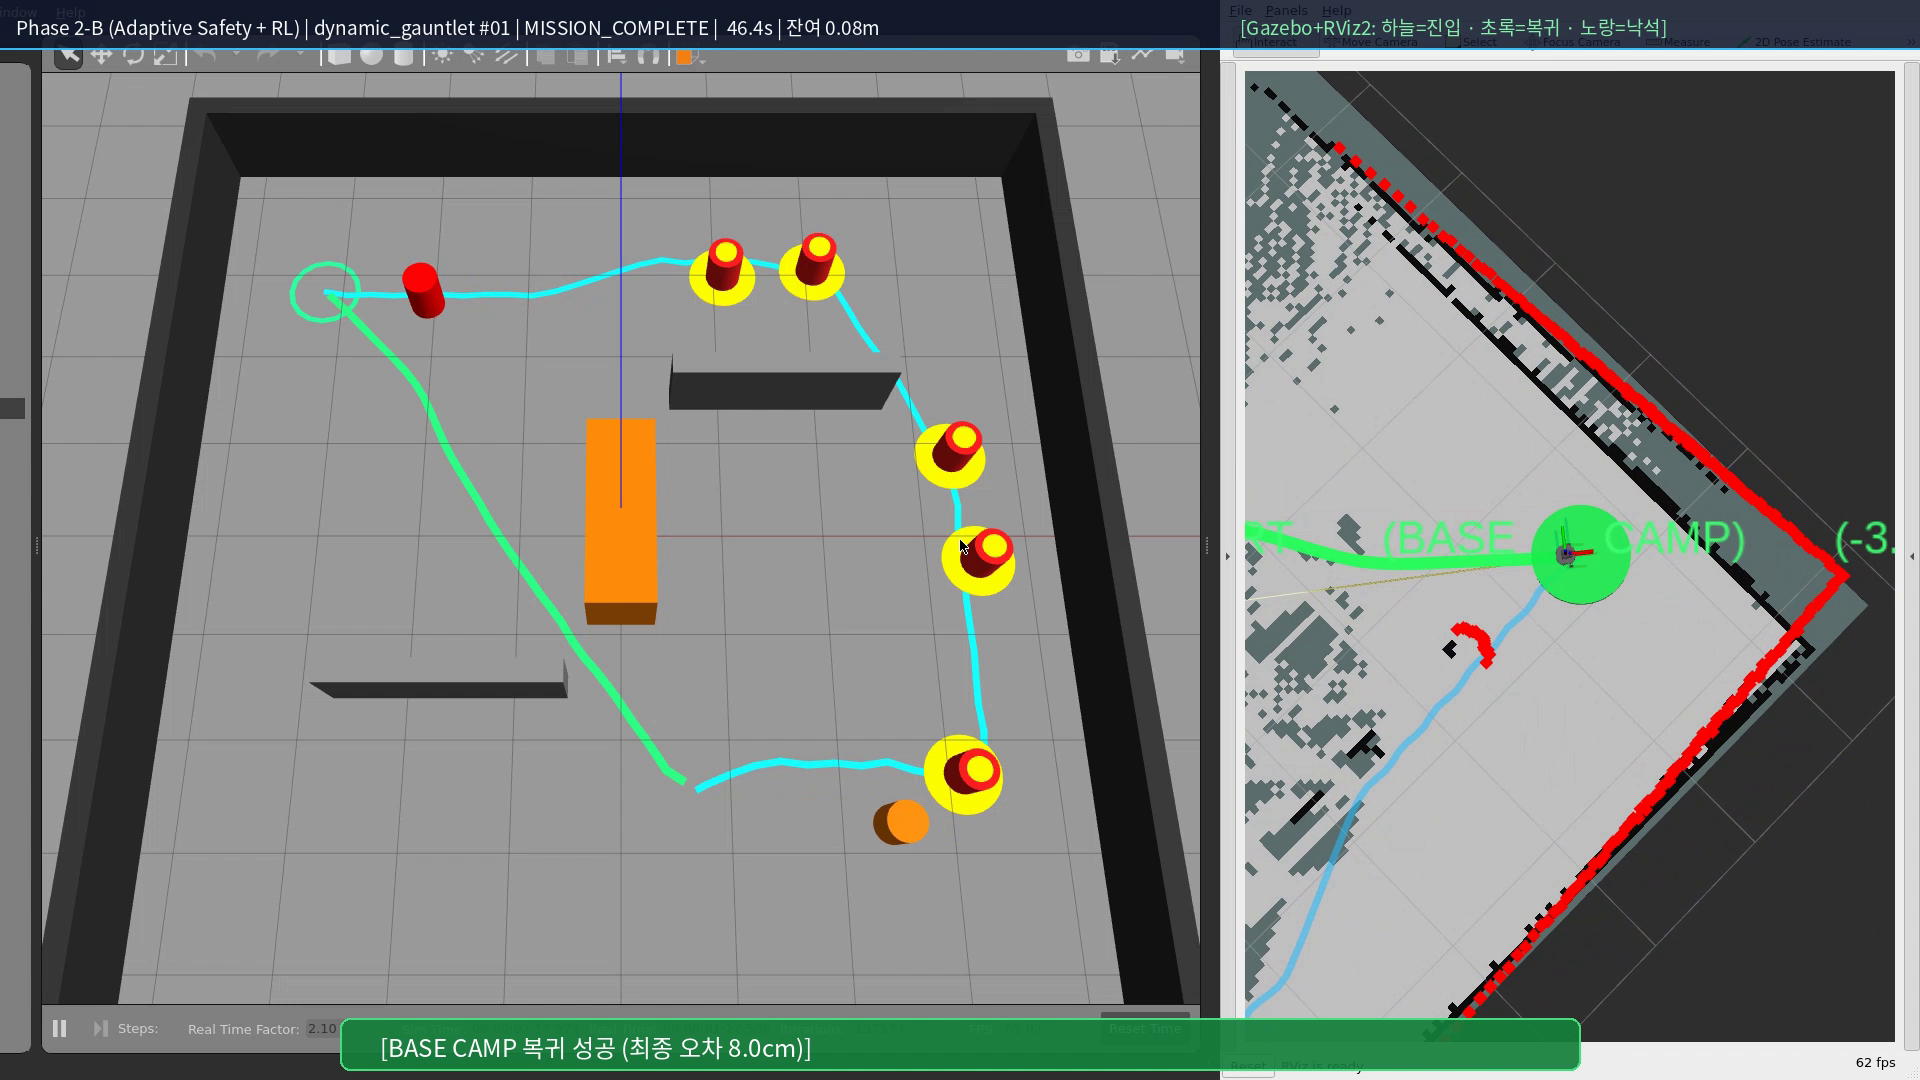
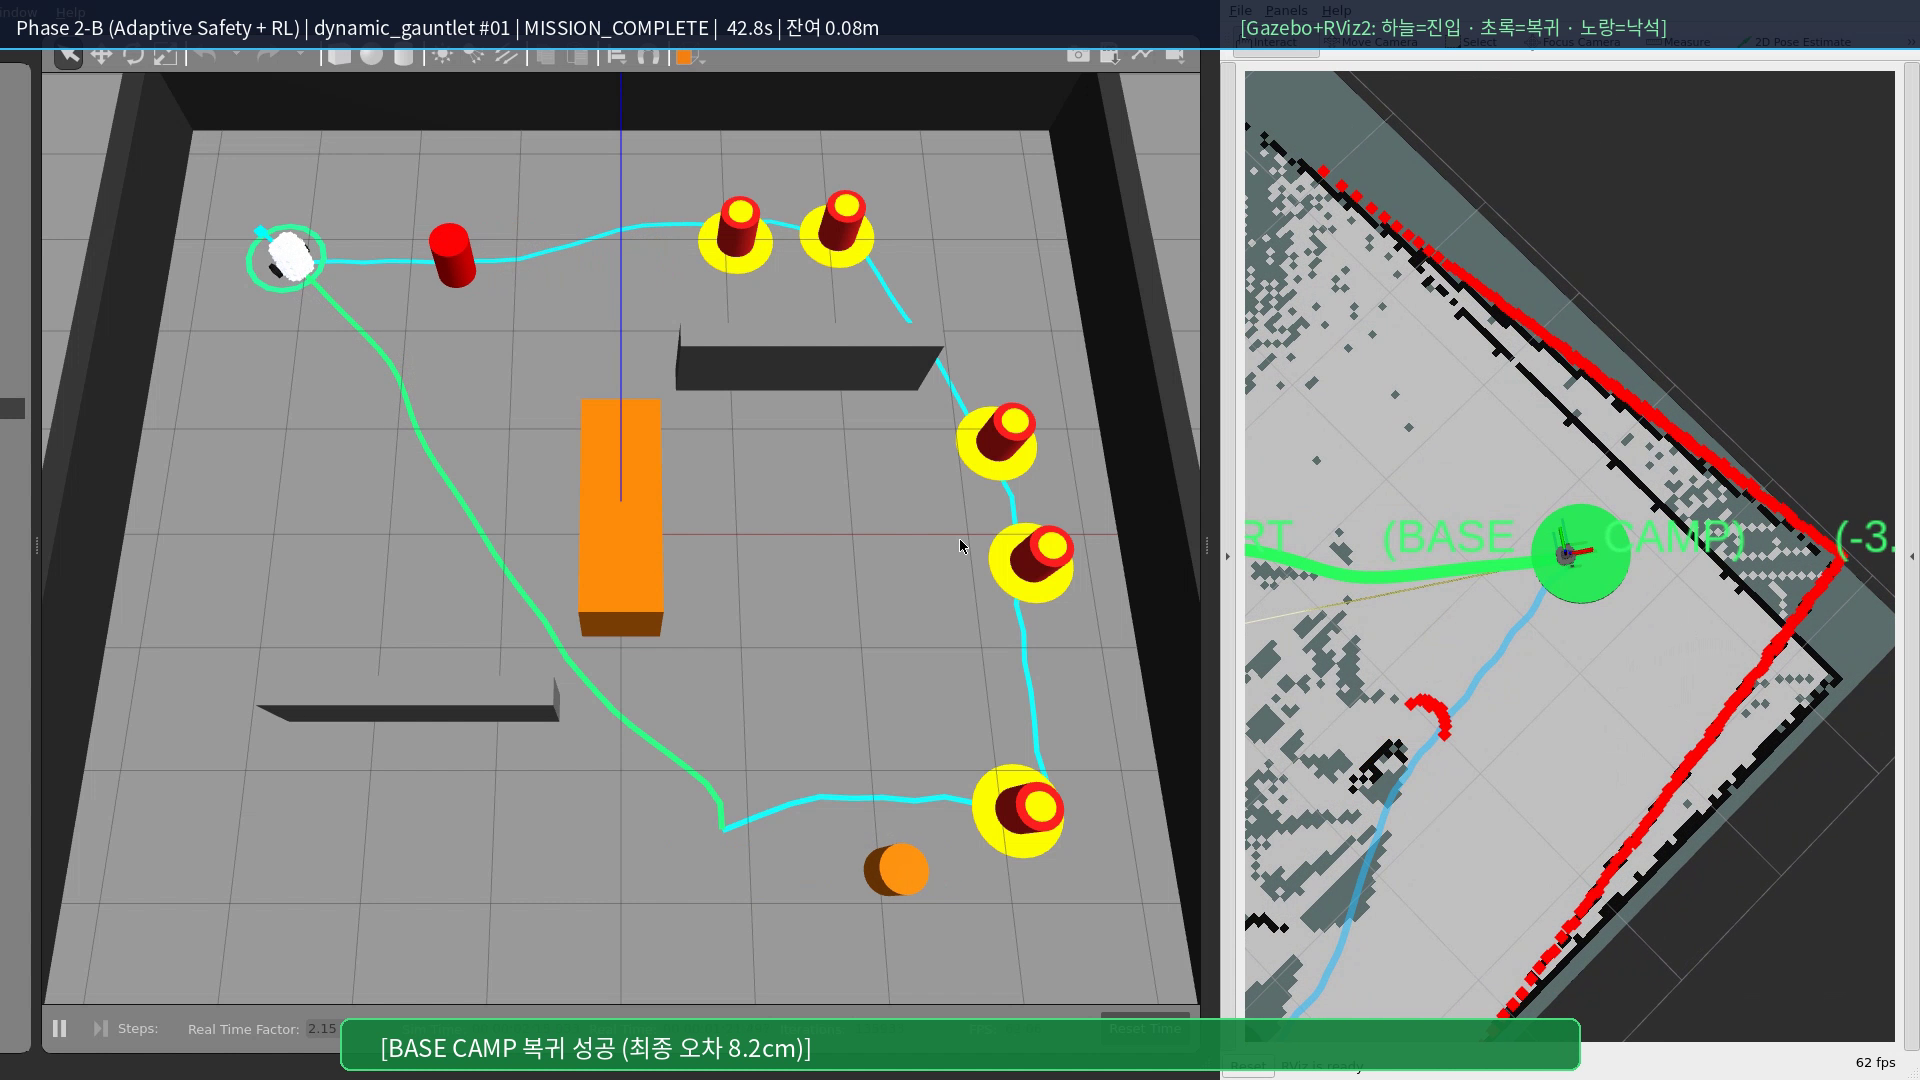
Fix 3D TurtleBot3 mesh/arrow visibility, translucent smoke zones, 7-pillar Seed 10068 GIFs, and final video metrics

Changed region(s): [[0.0, 0.0611, 1.0, 0.9472]]

diff --git a/scripts/host/record_3d_evidence.py b/scripts/host/record_3d_evidence.py
@@ -351,12 +351,12 @@ def _build_ribbon_sdf(
 
 
 CAMERA_OVERRIDES_3D = {
-    "u_pocket_trap": "4.9 -4.05 11.8 0 1.24 1.5708",
-    "slip_chicane": "4.8 -3.85 11.2 0 1.24 1.5708",
-    "dynamic_crossfire_alley": "4.8 -3.85 11.2 0 1.24 1.5708",
-    "smoke_lidar_corruption": "4.8 -3.85 11.2 0 1.24 1.5708",
-    "dynamic_gauntlet": "0.0 -3.25 9.4 0 1.24 1.5708",
-    "house_hard": "-0.3 -5.00 13.8 0 1.24 1.5708",
+    "u_pocket_trap": "4.9 -3.35 9.8 0 1.24 1.5708",
+    "slip_chicane": "4.8 -3.20 9.4 0 1.24 1.5708",
+    "dynamic_crossfire_alley": "4.8 -3.20 9.4 0 1.24 1.5708",
+    "smoke_lidar_corruption": "4.8 -3.20 9.4 0 1.24 1.5708",
+    "dynamic_gauntlet": "0.0 -2.85 8.2 0 1.24 1.5708",
+    "house_hard": "-0.3 -4.25 11.8 0 1.24 1.5708",
 }
 
 
@@ -488,6 +488,7 @@ def main() -> int:
         f"source /opt/ros/humble/setup.bash && source {WS_ROOT}/install/setup.bash && "
         f"export DISPLAY={args.display} {sw_env}QT_X11_NO_MITSHM=1 "
         f"ROS_LOCALHOST_ONLY=1 ROS_DOMAIN_ID={args.ros_domain_id} GAZEBO_MASTER_URI={gz_master_uri} "
+        f"GAZEBO_MODEL_PATH=/opt/ros/humble/share/turtlebot3_gazebo/models:${{GAZEBO_MODEL_PATH:-}} "
         f'GAZEBO_MODEL_DATABASE_URI="" && '
     )
     print(f"[GL] VirtualGL={'ENABLED (Tesla V100 EGL)' if use_vgl else 'DISABLED (Mesa llvmpipe CPU)'}", flush=True)
@@ -615,9 +616,9 @@ def main() -> int:
         outbound_sdf = _build_ribbon_sdf(
             "gz_outbound_path",
             outbound_sub,
-            width=0.065,
-            height=0.004,
-            z=0.0035,
+            width=0.042,
+            height=0.003,
+            z=0.0025,
             rgba=(0.05, 0.78, 1.0, 1.0),
             emissive_rgba=(0.04, 0.62, 0.92, 1.0),
         )
@@ -682,9 +683,9 @@ def main() -> int:
                 seg_sdf = _build_ribbon_sdf(
                     f"gz_ret_{ret_gz_idx}",
                     [(prev_gz_rx, prev_gz_ry), (node.cur_x, node.cur_y)],
-                    width=0.080,
-                    height=0.006,
-                    z=0.0070,
+                    width=0.048,
+                    height=0.004,
+                    z=0.0045,
                     rgba=(0.10, 1.0, 0.28, 1.0),
                     emissive_rgba=(0.08, 0.92, 0.22, 1.0),
                 )
@@ -705,9 +706,9 @@ def main() -> int:
                     seg_sdf = _build_ribbon_sdf(
                         f"gz_ret_{ret_gz_idx}",
                         [(prev_gz_rx, prev_gz_ry), (node.cur_x, node.cur_y)],
-                        width=0.080,
-                        height=0.006,
-                        z=0.0070,
+                        width=0.048,
+                        height=0.004,
+                        z=0.0045,
                         rgba=(0.10, 1.0, 0.28, 1.0),
                         emissive_rgba=(0.08, 0.92, 0.22, 1.0),
                     )

diff --git a/README.md b/README.md
@@ -389,27 +389,27 @@ flowchart TD
 | <img src="docs/images/evidence/comp4_u_pocket_trap.gif" width="100%" alt="4-Way u_pocket_trap"> | <img src="docs/images/evidence/comp4_house_hard.gif" width="100%" alt="4-Way house_hard"> | <img src="docs/images/evidence/comp4_slip_chicane.gif" width="100%" alt="4-Way slip_chicane"> |
 
 #### 3) [3D Gazebo + RViz2 `/map` 듀얼 뷰] 신규 재난 시나리오 2종 (`#14` & `#15`) 실시간 복귀 영상
-| `#14 dynamic_crossfire_alley` (`Trial #02 · PASS · 76.4s · err 8.5cm`) | `#15 smoke_lidar_corruption` (`Trial #02 · PASS · 68.8s · err 7.4cm`) |
+| `#14 dynamic_crossfire_alley` (`Trial #02 · PASS · 46.4s · err 8.7cm`) | `#15 smoke_lidar_corruption` (`Trial #02 · PASS · 70.4s · err 7.1cm`) |
 | :---: | :---: |
 | <img src="docs/images/evidence/p2b_dynamic_crossfire_alley.gif" width="100%" alt="3D Gazebo dynamic_crossfire_alley"> | <img src="docs/images/evidence/p2b_smoke_lidar_corruption.gif" width="100%" alt="3D Gazebo smoke_lidar_corruption"> |
 
 #### 4) [3D Gazebo + RViz2 `/map` 듀얼 뷰] 비정형·동적 장애물 4개 시나리오 5편 (`u_pocket_trap` · `slip_chicane` · `house_hard` · `dynamic_gauntlet`)
-| U자 함정 탈출 (`u_pocket_trap #10 · PASS · 44.3s`) | 저마찰 시케인 (`slip_chicane #01 · PASS · 92.8s`) | 고난도 다실 가옥 (`house_hard #08 · PASS · 88.3s`) |
+| U자 함정 탈출 (`u_pocket_trap #10 · PASS · 43.3s`) | 저마찰 시케인 (`slip_chicane #01 · PASS · 94.3s`) | 고난도 다실 가옥 (`house_hard #08 · PASS · 87.7s`) |
 | :---: | :---: | :---: |
 | <img src="docs/images/evidence/phase2b_u_pocket_trap_t10.gif" width="100%" alt="Phase 2-B u_pocket_trap t10"> | <img src="docs/images/evidence/phase2b_slip_chicane_t01.gif" width="100%" alt="Phase 2-B slip_chicane t01"> | <img src="docs/images/evidence/phase2b_house_hard_t08.gif" width="100%" alt="Phase 2-B house_hard t08"> |
 
-| 동적 배플 교차 #01 (`dynamic_gauntlet #01 · PASS · 46.4s`) | 동적 배플 교차 #02 (`dynamic_gauntlet #02 · PASS · 45.4s`) |
+| 동적 배플 교차 #01 (`dynamic_gauntlet #01 · PASS · 42.8s`) | 동적 배플 교차 #02 (`dynamic_gauntlet #02 · PASS · 44.9s`) |
 | :---: | :---: |
 | <img src="docs/images/evidence/phase2b_dynamic_gauntlet_t01.gif" width="100%" alt="Phase 2-B dynamic_gauntlet t01"> | <img src="docs/images/evidence/phase2b_dynamic_gauntlet_t02.gif" width="100%" alt="Phase 2-B dynamic_gauntlet t02"> |
 
-> *모든 3D Gazebo+RViz2 영상은 TurtleBot3 Burger URDF 원형 메쉬, 바닥 진입 경로(하늘색) · 실시간 복귀 경로(초록색) · Base Camp 원형 링이 함께 렌더링되며 GitHub 표시 규격(`7.8MB` 이하)으로 압축되었다.*
+> *모든 3D Gazebo+RViz2 영상에는 흰색 3D TurtleBot3 Burger 본체·주황색 LDS 라이다·전방 시안 방향 화살표·바닥 진입선(하늘색)·실시간 복귀선(초록색)·Base Camp 링이 함께 렌더링되며 GitHub 표시 규격(`7.8MB` 이하)으로 압축되었다. (`#15 smoke_lidar_corruption` 바닥의 반투명 연황갈색 원형 영역은 연기·분진으로 LiDAR 난반사 잡음이 주입되는 위험 구역을 뜻한다.)*
 
-#### 5) Phase 2-B V100 커리큘럼 재학습 진화 과정 (`Early → Mid → Final Student` · `Seed 10112 dynamic_crossing`) & 학습 곡선
-| Early (`upd 25` · `COLLISION`, 83스텝) | Mid (`upd 150` · `TIMEOUT`, 321스텝) | Final Phase 2-B Student (`PASS`, 247스텝) |
+#### 5) Phase 2-B V100 커리큘럼 재학습 진화 과정 (`Early → Mid → Final Student` · `Seed 10068 collapsed_debris` 기둥 7개) & 학습 곡선
+| Early (`upd 25` · `TIMEOUT`, 321스텝) | Mid (`upd 150` · `PASS`, 310스텝) | Final Phase 2-B Student (`PASS`, 208스텝) |
 | :---: | :---: | :---: |
 | <img src="docs/images/evidence/phase2b_retrain_early_upd25.gif" width="100%" alt="Phase 2-B Retrain Early upd25"> | <img src="docs/images/evidence/phase2b_retrain_mid_upd150.gif" width="100%" alt="Phase 2-B Retrain Mid upd150"> | <img src="docs/images/evidence/phase2b_retrain_final_student.gif" width="100%" alt="Phase 2-B Retrain Final Student"> |
 
-> *동일 홀드아웃 `Seed 10112 (dynamic_crossing)` 기준: **Early**는 첫 배플 틈새에서 충돌(`COLLISION`), **Mid**는 벽과 이동 장애물은 피하나 목표 앞 배회로 시간 초과(`TIMEOUT`), **Final Student**는 S자 회피 후 `24.6s` 만에 목표에 안착(`PASS`)한다.*
+> *동일 홀드아웃 `Seed 10068 (collapsed_debris · 주황색 기둥 7개)` 기준: **Early**는 기둥 사이에서 헤매며 시간 초과(`TIMEOUT`, 321스텝), **Mid**는 크게 회전·우회(`5.14m`)해 310스텝 만에 간신히 통과(`PASS`), **Final Student**는 기둥 사이를 매끄럽게 S자로 통과(`3.60m`)하며 `102스텝`(`20.8s`) 만에 복귀한다.*
 
 <p align="center">
   <img src="docs/images/evidence/phase2b_learning_curves_sim.png" alt="Phase 2-B V100 Retraining Learning Curves" width="68%">
